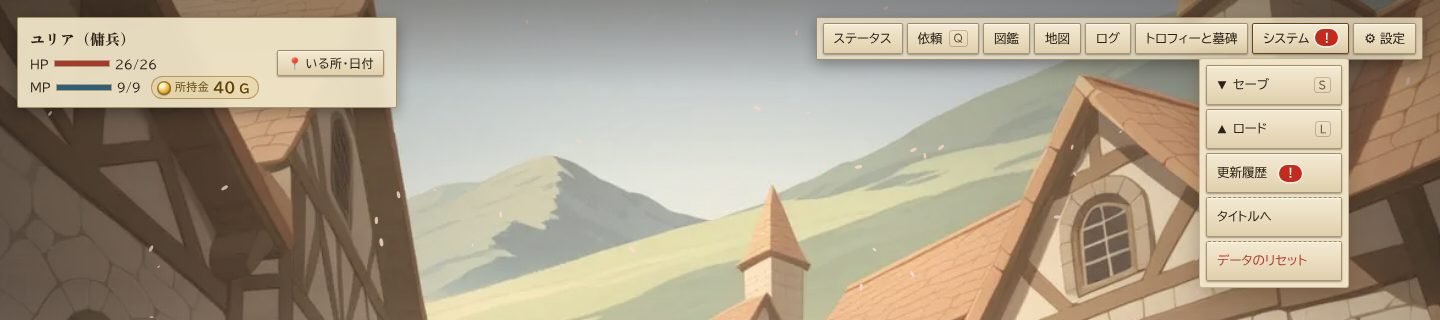
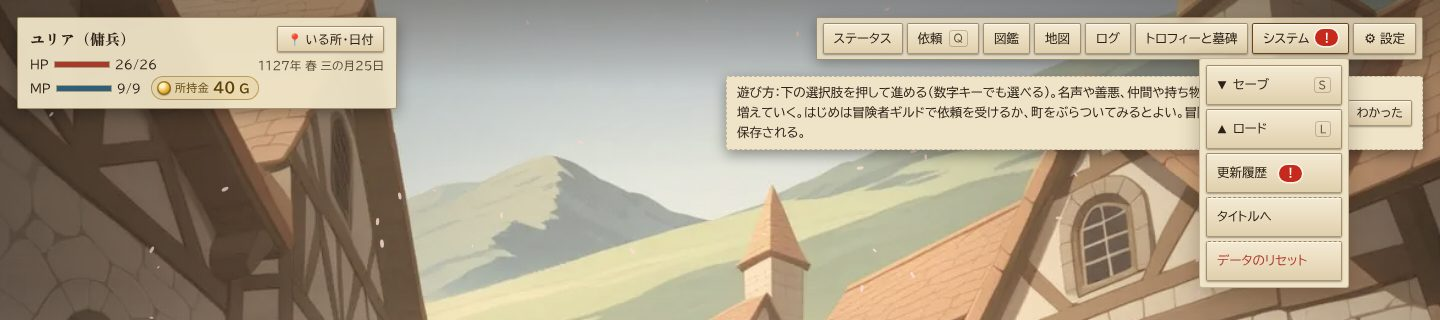
U36：左上に今日の日付・シグルンの絵は画像側に任せる（一覧の変更を戻す）・撮る道具に日付の確認
Claude-Session: https://claude.ai/code/session_01FZRru8EyXUdVc3gvShjPL5

diff --git a/src/ui/zzzzzzzzz_u36_date.js b/src/ui/zzzzzzzzz_u36_date.js
@@ -1,0 +1,44 @@
+// U36：今日の日付（暦の日付）を左上の状態の窓にいつも短く出す（持ち主の声「今何日かの表示は左上に出して」）。
+// いる所・時刻・状態の一行（u21 の #u29where）は今のまま「📍」を押したときだけ（R12）。日付だけを名前の行（PC。名前と📍のあいだ）・上の帯（スマホ）に一つ置く。
+// 要素は一つだけ（#u36date）を使い回し、描くたびに中身だけ書き替える（何手進めても行が増えない。R10 高 1 と同じ）。見た目は ui/zzzzzzzzz_u36_date.css。レーン U
+(function (G) {
+  const u36 = (G.u36 = G.u36 || {});
+  // 短い日付（DOM なし）：PC「1127年 春 一の月1日」、スマホ「春一の月1日」（帯の中の今の書き方と同じ）
+  u36.dateText = (day, short) => {
+    if (!G.calYear || !G.SEASONS || !G.MONTHS) return G.dateOf ? G.dateOf(day) : "";
+    const s = G.SEASONS[G.calSi(day)], m = G.MONTHS[G.calMi(day)], d = G.calMd(day);
+    return short ? `${s}${m}${d}日` : `${G.calYear(day)}年 ${s} ${m}${d}日`;
+  };
+  if (typeof document === "undefined" || !G.ui || !G.ui.render) return;
+  const ui = G.ui;
+  const el = document.createElement("span");
+  el.className = "u36date num";
+  el.id = "u36date";
+  function paint() {
+    const bar = document.getElementById("mbar");
+    const S = G.S;
+    if (!bar || !S || S.day == null) { el.hidden = true; return; }
+    bar.querySelectorAll(".u36date").forEach((x) => { if (x !== el) x.remove(); }); // 写しが残っていたら消す
+    const short = document.body.classList.contains("u31m");
+    // PC は名前のすぐ後（📍の前）、スマホは名前を出さないので📍の後
+    const pin = bar.querySelector(".r11wbtn"), name = bar.querySelector(".mname");
+    const at = short ? pin || name : name || pin;
+    if (at && el.previousElementSibling !== at) at.after(el);
+    else if (!at && el.parentNode !== bar) bar.prepend(el);
+    // スマホの帯に入りきらない（所持金や HP の桁が多い）ときは季節を外し、それでも無理なら日だけ。それでも無理なら CSS で切る（帯は一行のまま）
+    const tries = short ? [u36.dateText(S.day, true), `${G.MONTHS[G.calMi(S.day)]}${G.calMd(S.day)}日`, `${G.calMd(S.day)}日`] : [u36.dateText(S.day, false)];
+    for (const t of tries) {
+      if (el.textContent !== t) el.textContent = t;
+      if (!short || (el.scrollWidth <= el.clientWidth + 1 && bar.scrollWidth <= bar.clientWidth + 1)) break;
+    }
+    el.title = "今日の日付：" + u36.dateText(S.day, false);
+    el.hidden = false;
+  }
+  u36.paintDate = paint;
+  const base = ui.render;
+  ui.render = (...a) => {
+    const r = base(...a);
+    try { paint(); } catch {}
+    return r;
+  };
+})(globalThis.G = globalThis.G || {});

diff --git a/src/data/changelog.js b/src/data/changelog.js
@@ -9,7 +9,7 @@
       ver: "次の版",
       next: true,
       items: [
-        "右上の「システム」を開くと、更新履歴しか見えなかったのを直した（セーブ・ロード・更新履歴・タイトルへが並ぶ）。「データのリセット」もシステムから開けるように。右上の並びはステータス・依頼・図鑑・地図の順に（スマホのメニューも同じ）",
+        "右上の「システム」を開くと、更新履歴しか見えなかったのを直した（セーブ・ロード・更新履歴・タイトルへが並ぶ）。「データのリセット」もシステムから開けるように。右上の並びはステータス・依頼・図鑑・地図の順に（スマホのメニューも同じ）。左上の状態の窓に、今日の日付をいつも出すように（スマホは上の帯）",
         "描き直し待ちだった町の人（商人・貴族・ならず者・船乗り・宿の主・物乞い・子ども）の絵を、この世界の服で描き直して出すように。港の用心棒の絵も戻る。ロードの説明に「中断（倒れる前の行動）」を足した",
         "タイトルに「データのリセット」を追加。「セーブだけ消す」（トロフィー・図鑑・周回の知識・設定は残る）か「全部消して初めて遊ぶ状態に戻す」を選べる。消す前に二度確かめる",
         "初めての遊び方の一行が、立ち絵の名札に重ならないようにした（PC は右上の道具の帯の下、スマホの縦はコマンドの窓の頭）",

diff --git a/src/ui/zzzzzzzzz_u36_date.css b/src/ui/zzzzzzzzz_u36_date.css
@@ -1,0 +1,11 @@
+/* U36：左上の状態の窓の日付（ui/zzzzzzzzz_u36_date.js）。一行で、折り返さない */
+#mbar .u36date { flex: none; white-space: nowrap; font-size: 12px; letter-spacing: .03em; color: var(--muted); }
+#mbar .u36date[hidden] { display: none; }
+/* PC：窓は二列の格子（名前｜📍、HP・MP・所持金｜…）。📍を一行目だけにして、その下（HP の行の右端）に日付を置く。行は増えない */
+body.u21pc:not(.u31m) #mbar .r11wbtn { grid-row: 1; }
+body.u21pc:not(.u31m) #mbar .u36date { grid-column: 2; grid-row: 2; justify-self: end; align-self: start; padding-top: 2px; font-size: 11.5px; letter-spacing: 0;
+  width: 0; display: flex; justify-content: flex-end; } /* 幅 0 で右端から左へはみ出させる（列の幅を広げて所持金を次の行に押し出さない） */
+body.u21pc:not(.u31m) #mbar .u36date[hidden] { display: none; }
+body.u21pc:not(.u31m) #mbar.hasface .u36date { grid-column: 3; }
+/* スマホ：上の帯の📍の隣に小さく */
+body.u31m #mbar .u36date { order: 0; flex: 0 1 auto; min-width: 2.4em; overflow: hidden; text-overflow: ellipsis; font-size: 11px; letter-spacing: 0; margin: 0 2px; align-self: center; }

diff --git a/docs/art/portraits.md b/docs/art/portraits.md
@@ -15,13 +15,12 @@
 - **表情**は基本の絵の顔（プロンプトでは特徴のタグの後ろに付く）。差分（**喜・怒・哀・楽**と、その人らしい表情。種類は [moods.md](moods.md)）がある人は、基本の絵から差分を作る（`node tools/gen_portraits.mjs --variants`。`--mood shy,surprise` でその表情だけ。img2img で表情のタグだけ差し替える）。ファイルは `<id>_joy.webp`・`_shy` など。無い表情は近い表情か、基本の絵のまま。
 - png・jpg でもよい（同じ名前なら webp を使う）。埋め込みの合計が 12MB を超えるとビルドとテストが止まる（`tools/assets.mjs`）。
 
-## 画像のセッションへ：描くもの（15）
+## 画像のセッションへ：描くもの（14）
 
-下の表が、今描いてほしい絵のすべて（R5c・R5d）。タグは一覧（json）に入っているので、そのまま作れる：
+下の二つの表が、今描いてほしい絵のすべて（R5c・R5d）。タグは一覧（json）に入っているので、そのまま作れる：
 
 1. まだ描いていない型：`node tools/gen_portraits.mjs --only kind_villager_m_b,kind_villager_f_b,kind_merchant_m_b,kind_merchant_f_b,kind_guard_m_b,kind_priest_m_c,kind_noble_f_b,kind_soldier_m_b,kind_knight_m_b,kind_sailor_m_b,kind_mage_m_c,kind_beggar_f_b,kind_archer_m_b,kind_archer_f_b`
-2. まだ描いていない名のある人：`node tools/gen_portraits.mjs --only sigrun`（下の「名のある人物：出来事（R5）」の表）
-3. 港の用心棒（魔物の一覧）は [monsters.md](monsters.md) の「描き直し待ち」。
+2. 港の用心棒（魔物の一覧）は [monsters.md](monsters.md) の「描き直し待ち」。
 
 型の人・描き直し待ちの絵は、ネガティブに今の服の語（school uniform・necktie・zipper・hoodie など）が自動で足される（`tools/gen_portraits.mjs` の MODERN）。それでも今の服に見えたら `--new-seed` で作り直す。どれも胸から上・一人だけ・この世界（剣と魔法の中世風）の服。
 
@@ -203,14 +202,6 @@
 | `assets/portraits/albert.webp` | 司祭アルベルト | 型：`classic`<br>見た目（固定）：1boy, male focus, adult, 36 years old, grey hair, long hair, brown eyes, sharp eyes, round pince-nez, white priest vestment, blue cape, sun emblem<br>priest, pushing up pince-nez<br>表情：calm | 鼻眼鏡の司祭。眼鏡を押し上げる癖 |
 | `assets/portraits/dominik.webp` | 串焼き屋のドミニク | 型：`brute`<br>見た目（固定）：1boy, male focus, adult, middle-aged man, 40 years old, fat, fair skin, black hair, short hair, crew cut, black eyes, round eyes, thick black mustache, big nose, white headband, black t-shirt, white apron, towel around neck<br>grilling skewers<br>表情：grin | 串焼き屋の親父 |
 | `assets/portraits/neumann.webp` | 古道具屋のノイマン | 型：`ojisan`<br>見た目（固定）：1boy, male focus, adult, old man, 57 years old, fair skin, grey hair, short hair, brown eyes, glasses, white shirt, black necktie, brown vest, jeweler's loupe on cord<br>antique dealer, holding a silver ring<br>表情：small smile | 古道具屋。品物をじっと見せる |
-
-## 名のある人物：出来事（R5）（1）
-
-出来事に名前で出る人（`src/data/r5_named.js`。id はその表の id）。ゲームは `assets/portraits/<id>.webp` があればそれを出し、無いあいだは絵なし（型の絵・ほかの人の絵で代用しない）。見た目は本文から取り、本文に無い髪・目の色は本文と食い違わないように決める。表の人で、まだここに無い人は [a10_map.md](a10_map.md) の「絵なし」を見る（U36）。
-
-| ファイル | 名前 | 特徴のタグ | メモ |
-|---|---|---|---|
-| `assets/portraits/sigrun.webp` | 片目のシグルン | 見た目（固定）：1girl, mature female, adult, woman, 41 years old, lean, weathered skin, dark auburn hair, short hair, choppy hair, grey eyes, one eye, black eyepatch, scar across eyebrow, worn grey hooded cloak, old claw marks on cloak shoulder, leather armor, sword belt<br>mercenary, arms crossed, leaning on wall<br>表情：expressionless, sharp eyes | 使徒を追う片目の女（src/data/r5_named.js の sigrun。f2_majin_2・4・5・f2r_sigrun。仲間にもなる）。41 歳・傭兵・口数が少ない。本文にあるのは片目・灰色の外套・肩の古い爪痕だけで、髪と目の色は本文と食い違わないように決めた。描くまでは絵なし（十指のシグ sig.webp は別人） |
 
 ## 型：名もない人（58）
 

diff --git a/CHANGELOG.md b/CHANGELOG.md
@@ -4,7 +4,7 @@
 
 ## 次の版（未公開）
 
-- 右上の「システム」を開くと、更新履歴しか見えなかったのを直した（セーブ・ロード・更新履歴・タイトルへが並ぶ）。「データのリセット」もシステムから開けるように。右上の並びはステータス・依頼・図鑑・地図の順に（スマホのメニューも同じ）
+- 右上の「システム」を開くと、更新履歴しか見えなかったのを直した（セーブ・ロード・更新履歴・タイトルへが並ぶ）。「データのリセット」もシステムから開けるように。右上の並びはステータス・依頼・図鑑・地図の順に（スマホのメニューも同じ）。左上の状態の窓に、今日の日付をいつも出すように（スマホは上の帯）
 - 描き直し待ちだった町の人（商人・貴族・ならず者・船乗り・宿の主・物乞い・子ども）の絵を、この世界の服で描き直して出すように。港の用心棒の絵も戻る。ロードの説明に「中断（倒れる前の行動）」を足した
 - タイトルに「データのリセット」を追加。「セーブだけ消す」（トロフィー・図鑑・周回の知識・設定は残る）か「全部消して初めて遊ぶ状態に戻す」を選べる。消す前に二度確かめる
 - 初めての遊び方の一行が、立ち絵の名札に重ならないようにした（PC は右上の道具の帯の下、スマホの縦はコマンドの窓の頭）
